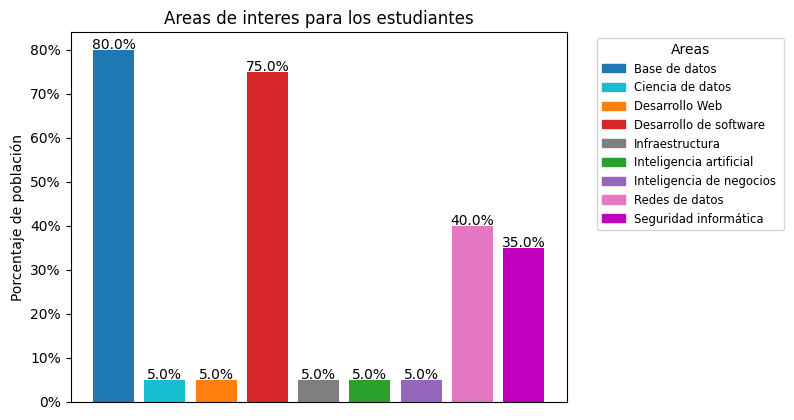
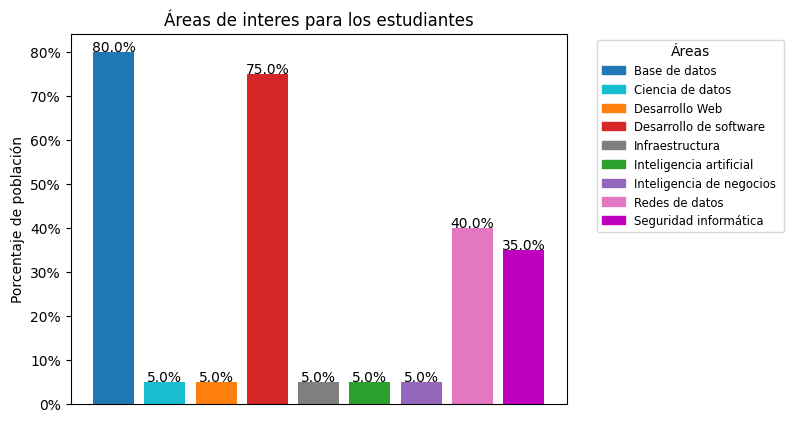
Áreas

diff --git a/make_graphics.py b/make_graphics.py
@@ -207,7 +207,7 @@ for individuo in empleados_de_bancos:
         empleados_crt.append(individuo)
         certificados = certificados + individuo["Indique en cuáles áreas se ha certificado:\xa0(Puede escoger más de una opción)"].split(";")
 
-    # Areas de desempeño
+    # Áreas de desempeño
     areas_de_desempenio = areas_de_desempenio + individuo["¿En qué área se desempeña o desempeñó en el sector bancario?\xa0\xa0(Puede escoger más de una opción)"].split(";")
 
     #Habilidades requeridas
@@ -630,7 +630,7 @@ make_bar(
         ylabel="Porcentaje de población"
         )
 
-############ Areas de trabajo de empleados ############
+############ Áreas de trabajo de empleados ############
 areas_de_desempenio = np.array(areas_de_desempenio)
 
 areas_set, areas_count = np.unique(areas_de_desempenio, return_counts=True)
@@ -640,8 +640,8 @@ areas_pro = (areas_count / len(empleados_de_bancos)) * 100
 make_bar(
         data=areas_set,
         por=areas_pro,
-        title="Areas de desempeño de empleados",
-        name="Areas",
+        title="Áreas de desempeño de empleados",
+        name="Áreas",
         file_name="./fig/areas_de_desempenio.png",
         drop_df=True,
         ylabel="Porcentaje de población"
@@ -717,7 +717,7 @@ make_bar(
         ylabel="Porcentaje de población"
         )
 
-############ Areas de interes para los estudiantes ############
+############ Áreas de interes para los estudiantes ############
 
 area_interes = np.array(area_interes)
 
@@ -728,8 +728,8 @@ so_pro = (so_count / len(estudiantes)) * 100
 make_bar(
         data=so_set,
         por=so_pro,
-        title="Areas de interes para los estudiantes",
-        name="Areas",
+        title="Áreas de interes para los estudiantes",
+        name="Áreas",
         file_name="./fig/areas_interes.png",
         drop_df=True,
         ylabel="Porcentaje de población"
